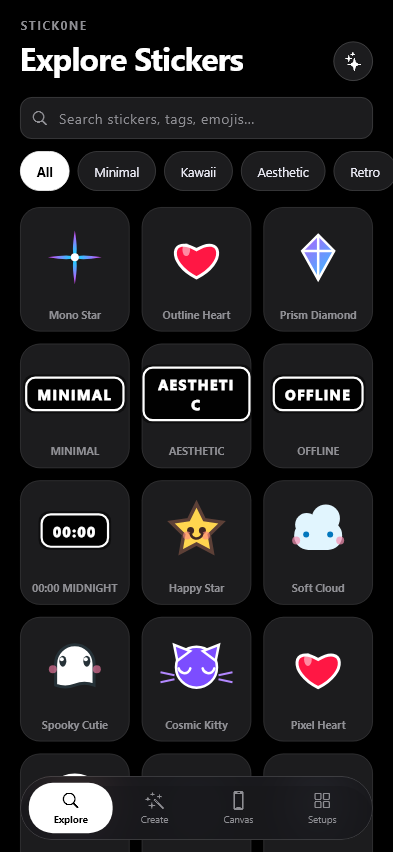
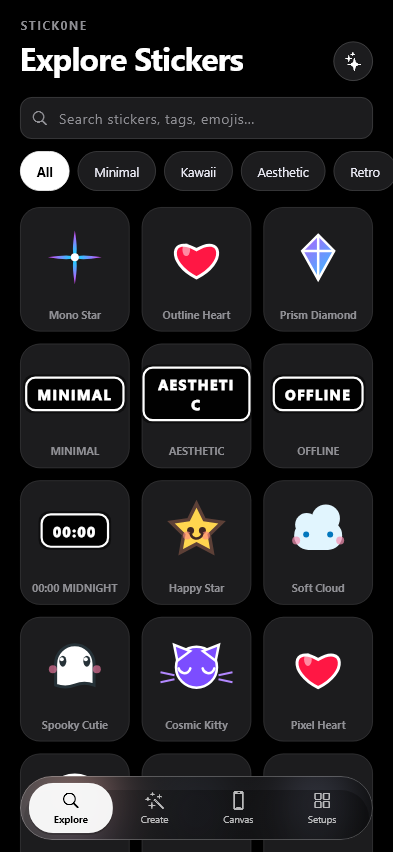
feat: iOS liquidmorphism frosted translucent glass styling for canvas panel and floating tab bar with gesture auto-dim

diff --git a/lib/screens/sticker_placement_screen.dart b/lib/screens/sticker_placement_screen.dart
@@ -715,7 +715,11 @@ class _StickerPlacementScreenState extends State<StickerPlacementScreen> {
               bottom: 88, // elevated safely above 64px tab bar + padding
               left: 0,
               right: 0,
-              child: _buildTransparencyBottomPanel(canvas, activePlacement),
+              child: AnimatedOpacity(
+                duration: const Duration(milliseconds: 180),
+                opacity: _gesturePlacementId != null ? 0.20 : 1.0,
+                child: _buildTransparencyBottomPanel(canvas, activePlacement),
+              ),
             ),
         ],
       ),
@@ -946,22 +950,32 @@ class _StickerPlacementScreenState extends State<StickerPlacementScreen> {
     return Padding(
       padding: const EdgeInsets.symmetric(horizontal: 16),
       child: ClipRRect(
-        borderRadius: BorderRadius.circular(24),
+        borderRadius: BorderRadius.circular(28),
         child: BackdropFilter(
-          filter: ui.ImageFilter.blur(sigmaX: 25, sigmaY: 25),
+          filter: ui.ImageFilter.blur(sigmaX: 30, sigmaY: 30),
           child: Container(
             decoration: BoxDecoration(
-              color: const Color(0xE61C1C1E),
-              borderRadius: BorderRadius.circular(24),
+              borderRadius: BorderRadius.circular(28),
+              gradient: const LinearGradient(
+                begin: Alignment.topLeft,
+                end: Alignment.bottomRight,
+                colors: [
+                  Color(0x38FFFFFF), // Liquid glass top refraction highlight
+                  Color(0x142C2C2E), // Fluid translucent center (crystal clear view of stickers)
+                  Color(0x24000000), // Liquid bottom refraction depth
+                ],
+                stops: [0.0, 0.5, 1.0],
+              ),
               border: Border.all(
-                color: const Color(0x33FFFFFF),
-                width: 0.8,
+                color: const Color(0x40FFFFFF), // 25% white glossy refraction rim
+                width: 1.0,
               ),
               boxShadow: const [
                 BoxShadow(
-                  color: Color(0x80000000),
-                  blurRadius: 20,
-                  offset: Offset(0, 8),
+                  color: Color(0x4D000000),
+                  blurRadius: 28,
+                  spreadRadius: -4,
+                  offset: Offset(0, 10),
                 ),
               ],
             ),
@@ -981,7 +995,7 @@ class _StickerPlacementScreenState extends State<StickerPlacementScreen> {
                     const Text(
                       'Transparency',
                       style: TextStyle(
-                        color: Color(0xFF8E8E93),
+                        color: Colors.white,
                         fontSize: 13,
                         fontWeight: FontWeight.w600,
                       ),
@@ -992,7 +1006,7 @@ class _StickerPlacementScreenState extends State<StickerPlacementScreen> {
                         min: 0.05,
                         max: 1.0,
                         activeColor: Colors.white,
-                        inactiveColor: const Color(0xFF3A3A3C),
+                        inactiveColor: const Color(0x33FFFFFF), // Translucent frosted track
                         onChanged: (val) {
                           canvas.updatePlacementOpacity(activePlacement.id, val);
                         },
@@ -1028,9 +1042,9 @@ class _StickerPlacementScreenState extends State<StickerPlacementScreen> {
                         child: Container(
                           padding: const EdgeInsets.symmetric(horizontal: 10, vertical: 8),
                           decoration: BoxDecoration(
-                            color: const Color(0x26FF453A),
+                            color: const Color(0x33FF453A),
                             borderRadius: BorderRadius.circular(14),
-                            border: Border.all(color: const Color(0x4DFF453A), width: 0.8),
+                            border: Border.all(color: const Color(0x66FF453A), width: 0.9),
                           ),
                           child: const Row(
                             mainAxisSize: MainAxisSize.min,
@@ -1058,9 +1072,9 @@ class _StickerPlacementScreenState extends State<StickerPlacementScreen> {
                         child: Container(
                           padding: const EdgeInsets.symmetric(horizontal: 10, vertical: 8),
                           decoration: BoxDecoration(
-                            color: const Color(0xFF2C2C2E),
+                            color: const Color(0x29FFFFFF), // Liquid frosted pill
                             borderRadius: BorderRadius.circular(14),
-                            border: Border.all(color: const Color(0x33FFFFFF), width: 0.8),
+                            border: Border.all(color: const Color(0x40FFFFFF), width: 0.9),
                           ),
                           child: const Row(
                             mainAxisSize: MainAxisSize.min,
@@ -1089,19 +1103,19 @@ class _StickerPlacementScreenState extends State<StickerPlacementScreen> {
                           child: Container(
                             padding: const EdgeInsets.symmetric(horizontal: 10, vertical: 8),
                             decoration: BoxDecoration(
-                              color: const Color(0xFF2C2C2E),
+                              color: const Color(0x29FFFFFF), // Liquid frosted pill
                               borderRadius: BorderRadius.circular(14),
-                              border: Border.all(color: const Color(0x33FFFFFF), width: 0.8),
+                              border: Border.all(color: const Color(0x40FFFFFF), width: 0.9),
                             ),
                             child: const Row(
                               mainAxisSize: MainAxisSize.min,
                               children: [
-                                Icon(CupertinoIcons.clear_circled, color: Color(0xFF8E8E93), size: 13),
+                                Icon(CupertinoIcons.clear_circled, color: Color(0xFFE5E5EA), size: 13),
                                 SizedBox(width: 4),
                                 Text(
                                   'Remove Screen',
                                   style: TextStyle(
-                                    color: Color(0xFF8E8E93),
+                                    color: Color(0xFFE5E5EA),
                                     fontSize: 12,
                                     fontWeight: FontWeight.w600,
                                   ),
@@ -1123,11 +1137,11 @@ class _StickerPlacementScreenState extends State<StickerPlacementScreen> {
                             ),
                           ),
                           style: ElevatedButton.styleFrom(
-                            backgroundColor: Colors.white,
+                            backgroundColor: const Color(0xF2FFFFFF),
                             foregroundColor: Colors.black,
+                            elevation: 0,
                             padding: const EdgeInsets.symmetric(horizontal: 12, vertical: 8),
                             shape: RoundedRectangleBorder(borderRadius: BorderRadius.circular(14)),
-                            elevation: 0,
                           ),
                         ),
                       ] else ...[
@@ -1144,11 +1158,11 @@ class _StickerPlacementScreenState extends State<StickerPlacementScreen> {
                             ),
                           ),
                           style: ElevatedButton.styleFrom(
-                            backgroundColor: Colors.white,
+                            backgroundColor: const Color(0xF2FFFFFF),
                             foregroundColor: Colors.black,
+                            elevation: 0,
                             padding: const EdgeInsets.symmetric(horizontal: 14, vertical: 8),
                             shape: RoundedRectangleBorder(borderRadius: BorderRadius.circular(14)),
-                            elevation: 0,
                           ),
                         ),
                       ],

diff --git a/lib/screens/main_navigation_screen.dart b/lib/screens/main_navigation_screen.dart
@@ -65,21 +65,31 @@ class _MainNavigationScreenState extends State<MainNavigationScreen> {
         child: ClipRRect(
           borderRadius: BorderRadius.circular(32),
           child: BackdropFilter(
-            filter: ImageFilter.blur(sigmaX: 25, sigmaY: 25),
+            filter: ImageFilter.blur(sigmaX: 30, sigmaY: 30),
             child: Container(
               height: 64,
               padding: const EdgeInsets.symmetric(horizontal: 8, vertical: 6),
               decoration: BoxDecoration(
-                color: const Color(0xCC1A1A1E), // Frosted dark glass
                 borderRadius: BorderRadius.circular(32),
+                gradient: const LinearGradient(
+                  begin: Alignment.topLeft,
+                  end: Alignment.bottomRight,
+                  colors: [
+                    Color(0x38FFFFFF), // Liquid glass top refraction highlight
+                    Color(0x142C2C2E), // Fluid translucent center (crystal clear view of stickers)
+                    Color(0x24000000), // Liquid bottom refraction depth
+                  ],
+                  stops: [0.0, 0.5, 1.0],
+                ),
                 border: Border.all(
-                  color: const Color(0x33FFFFFF), // Ultra-fine frosted border
-                  width: 0.8,
+                  color: const Color(0x40FFFFFF), // 25% white glossy refraction rim
+                  width: 1.0,
                 ),
                 boxShadow: const [
                   BoxShadow(
-                    color: Color(0x66000000),
-                    blurRadius: 20,
+                    color: Color(0x4D000000),
+                    blurRadius: 28,
+                    spreadRadius: -4,
                     offset: Offset(0, 10),
                   ),
                 ],
@@ -110,8 +120,20 @@ class _MainNavigationScreenState extends State<MainNavigationScreen> {
           duration: const Duration(milliseconds: 220),
           curve: Curves.easeOutCubic,
           decoration: BoxDecoration(
-            color: isSelected ? Colors.white : Colors.transparent,
+            color: isSelected ? const Color(0xF2FFFFFF) : Colors.transparent,
             borderRadius: BorderRadius.circular(24),
+            border: isSelected
+                ? Border.all(color: const Color(0x66FFFFFF), width: 0.8)
+                : null,
+            boxShadow: isSelected
+                ? const [
+                    BoxShadow(
+                      color: Color(0x33000000),
+                      blurRadius: 8,
+                      offset: Offset(0, 2),
+                    ),
+                  ]
+                : null,
           ),
           child: Column(
             mainAxisAlignment: MainAxisAlignment.center,
@@ -119,7 +141,7 @@ class _MainNavigationScreenState extends State<MainNavigationScreen> {
               Icon(
                 icon,
                 size: 20,
-                color: isSelected ? Colors.black : const Color(0xFF8E8E93),
+                color: isSelected ? Colors.black : const Color(0xB3FFFFFF),
               ),
               const SizedBox(height: 2),
               Text(
@@ -127,7 +149,7 @@ class _MainNavigationScreenState extends State<MainNavigationScreen> {
                 style: TextStyle(
                   fontSize: 10,
                   fontWeight: isSelected ? FontWeight.w700 : FontWeight.w500,
-                  color: isSelected ? Colors.black : const Color(0xFF8E8E93),
+                  color: isSelected ? Colors.black : const Color(0xB3FFFFFF),
                   letterSpacing: -0.2,
                 ),
               ),
